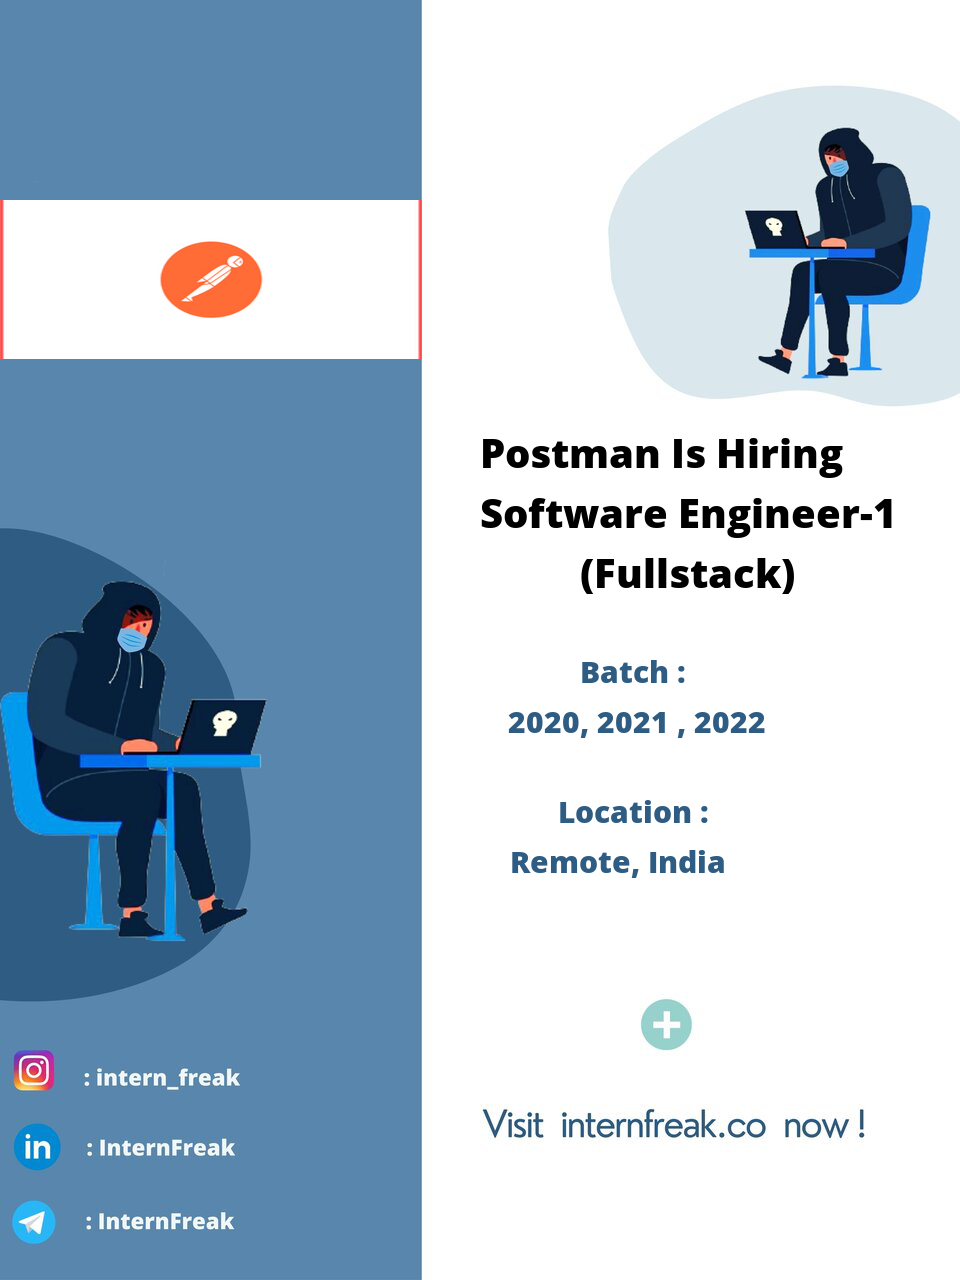
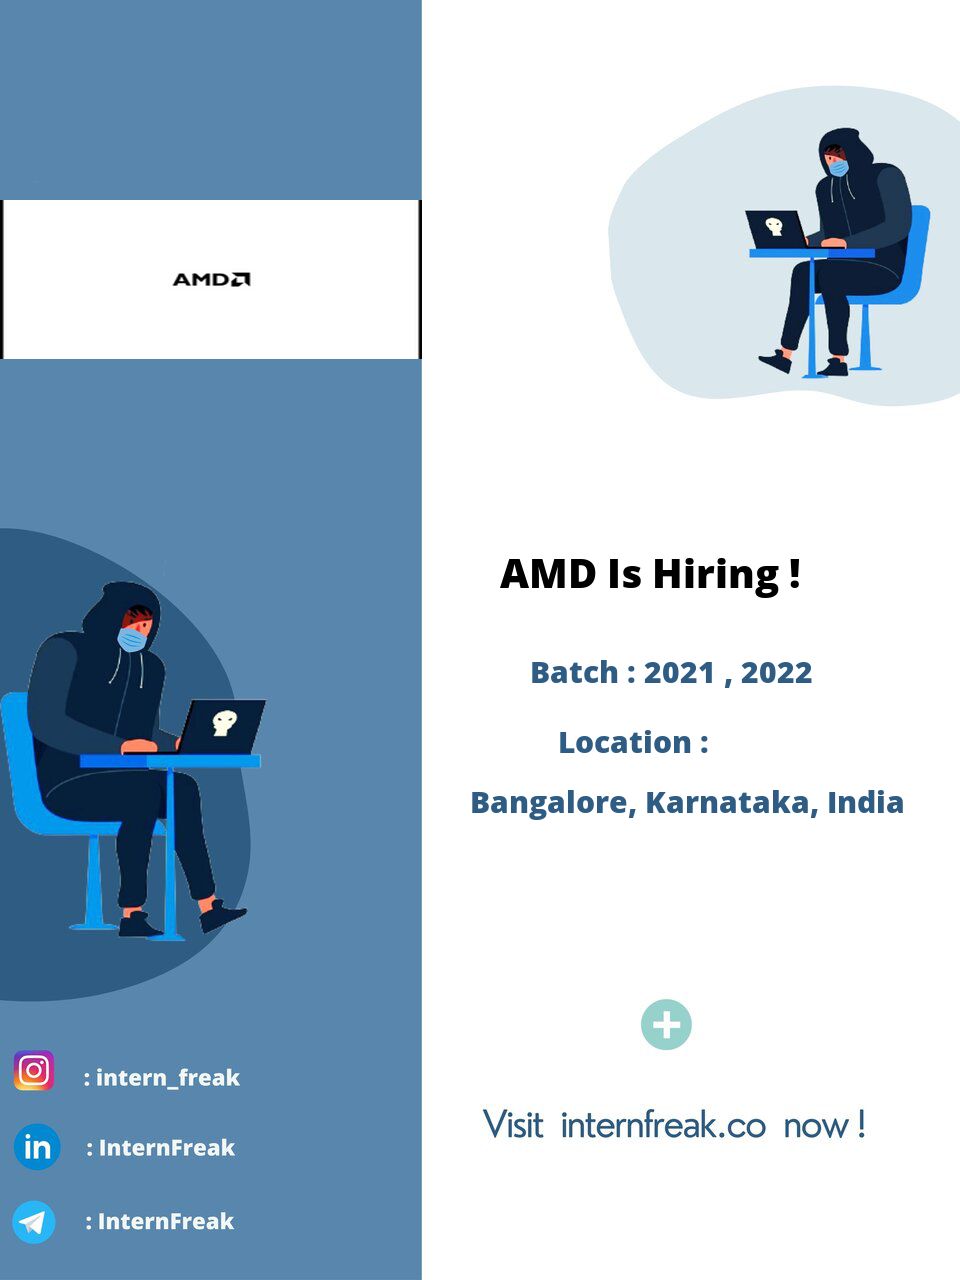
Few bugs fixed

diff --git a/main.py b/main.py
@@ -79,6 +79,10 @@ def greet1(message1):
   if len(urlImgSlice[end+51:-12].split())>1 :
     I1.text((500, 485),urlImgSlice[end+51:-12] +space+"Is", font=myFont, fill=(0, 0, 0))
     I1.text((570, 545), "Hiring  !", font=myFont, fill=(0, 0, 0))
+    
+  elif len(urlImgSlice[end+51:-12].split())==1 and len(urlImgSlice[end+51:-12])<6 :
+    I1.text((500, 545),urlImgSlice[end+51:-12] +space+"Is"+space+"Hiring !", font=myFont, fill=(0, 0, 0))
+       
   else:
     if designation_length ==1 :
       I1.text((500, 485),urlImgSlice[end+51:-12] +space+"Is Hiring ", font=myFont, fill=(0, 0, 0))
